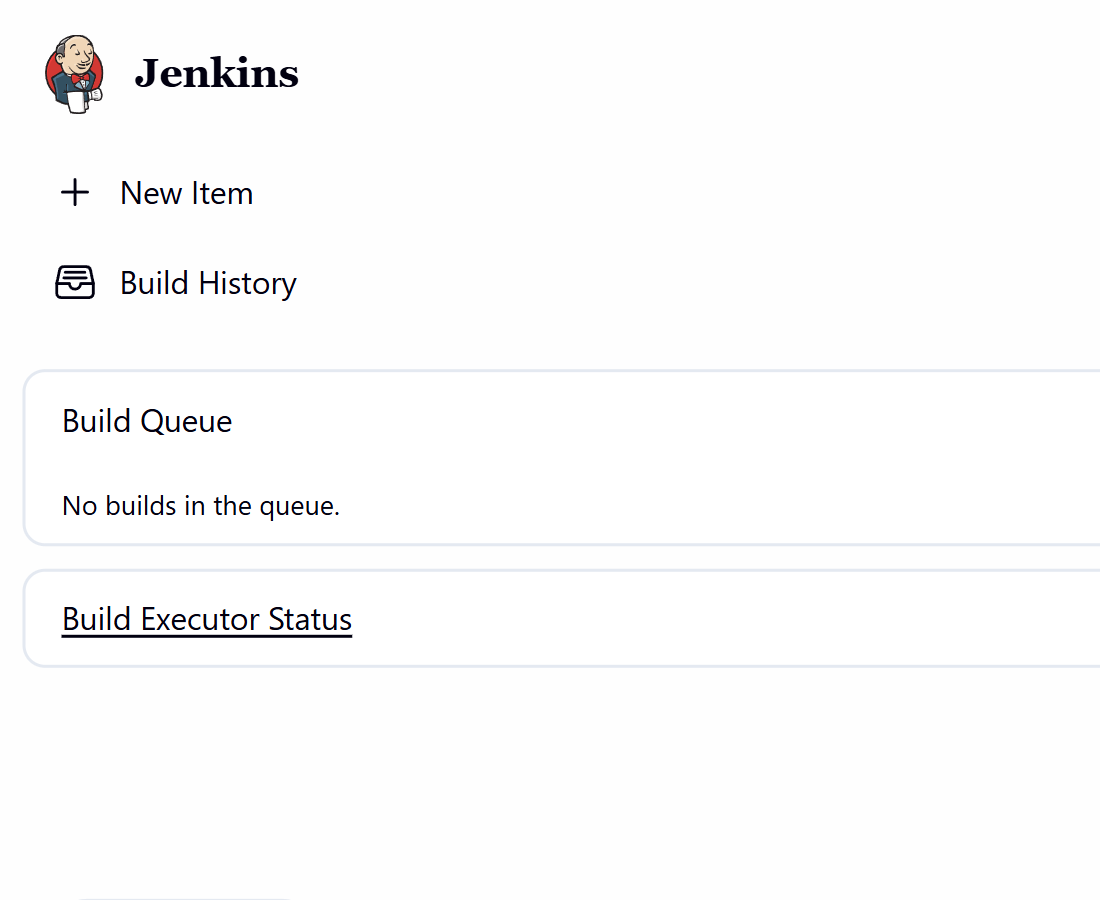
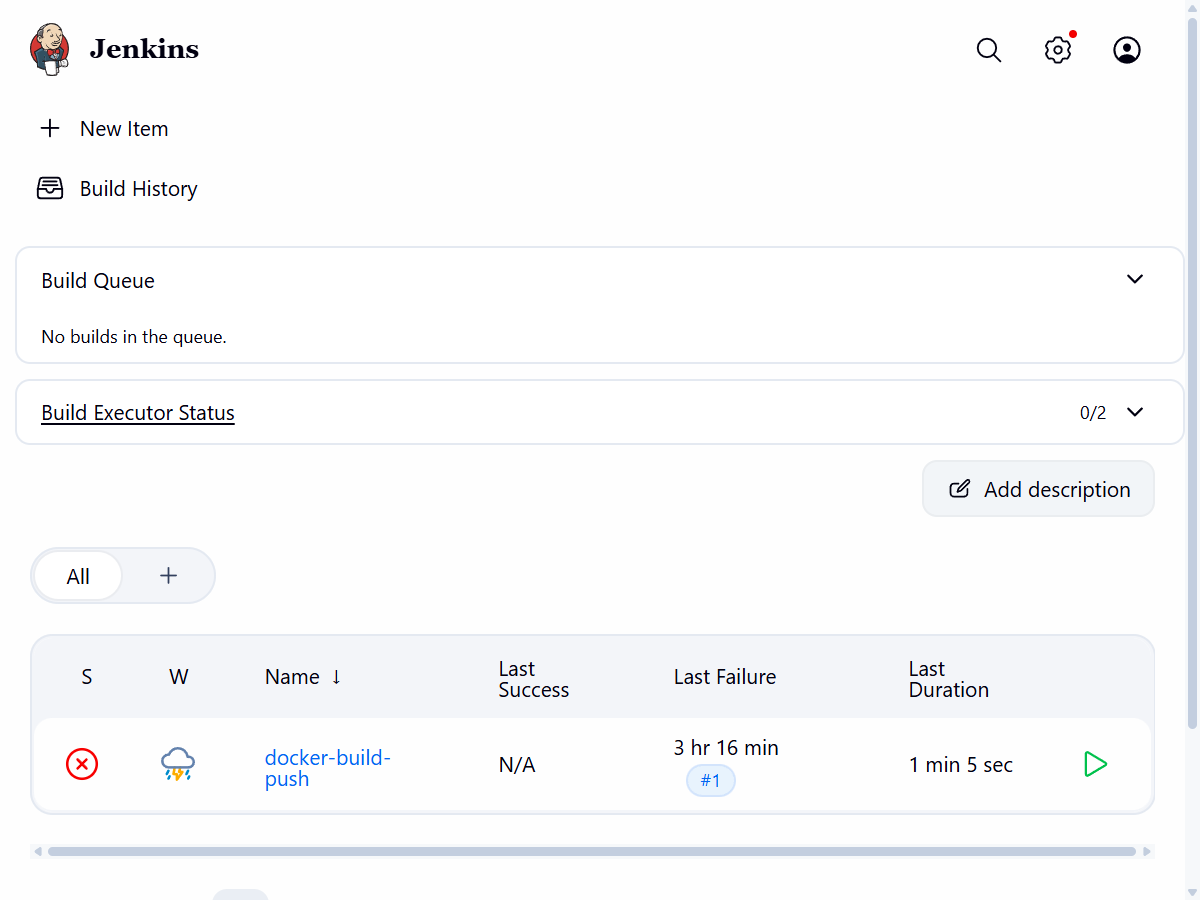
1

diff --git a/04_Jenkins/001_Jenikin/003_LAB_Docker_Build_Push/README.md b/04_Jenkins/001_Jenikin/003_LAB_Docker_Build_Push/README.md
@@ -2,7 +2,7 @@
 
 > 📝 **ฉบับปรับใหม่ (2026-09-27):** Jenkins SSH เข้า `devtools` ด้วย **key `devtoolSSH`** ผ่าน plugin **SSH Agent** และให้ SSH จำ host key ของ devtools เองตอนต่อครั้งแรก (`accept-new`) · `Jenkinsfile` ถูกเขียนใหม่ให้สั้นเหลือ **6 stage** · ⚠ ไฟล์ฉบับนี้ **ตรวจแบบ static แล้ว แต่ยังไม่ได้รันจริงบน Jenkins** · ภาพที่มีป้าย 🕰 **ภาพเดิม** ถ่ายจาก workflow รุ่นก่อน (SSH ด้วยรหัสผ่าน, 8 stage) ใช้ดูหน้าตาหน้าเว็บเท่านั้น
 
-> ⏱ ประมาณ 45–60 นาที · 🧪 7 ขั้น · 🎯 จบเมื่อกด **Build** ใน Jenkins แล้ว `http://localhost:3000` แสดงร้าน **Meow Mart** เวอร์ชันที่ Pipeline เพิ่ง build → test → push ขึ้น Docker Hub → pull กลับมา deploy
+> ⏱ ประมาณ 45–60 นาที · 🧪 6 ขั้น (ไม่นับข้อ 0 สิ่งที่ต้องมี) · 🎯 จบเมื่อกด **Build** ใน Jenkins แล้ว `http://localhost:3000` แสดงร้าน **Meow Mart** เวอร์ชันที่ Pipeline เพิ่ง build → test → push ขึ้น Docker Hub → pull กลับมา deploy
 
 ## ภาพรวม
 
@@ -204,9 +204,9 @@ docker exec jenkins cat /var/jenkins_home/secrets/initialAdminPassword
 
 **3.0ข) Dashboard → ไอคอนเฟือง ⚙** — คลิกไอคอน**เฟือง** (Manage Jenkins) มุมขวาบน ข้างไอคอนแว่นขยาย
 
-[![หน้า Dashboard มีไอคอนเฟือง Manage Jenkins มุมขวาบน](./images/lab3_nav_02_dashboard.png)](./images/lab3_nav_02_dashboard.png)
+[![หน้า Dashboard มีไอคอนเฟือง Manage Jenkins มุมขวาบน](./images/lab3_nav_02_dashboard_large.png)](./images/lab3_nav_02_dashboard_large.png)
 
-*ภาพที่ 4ข หน้า **Dashboard**: มุมขวาบนมีไอคอนแว่นขยาย (ค้นหา) · **เฟือง = Manage Jenkins** · ไอคอนผู้ใช้ · จุดแดงบนเฟืองคือการแจ้งเตือนของระบบ ไม่เกี่ยวกับแล็บนี้*
+*ภาพที่ 4ข หน้า **Dashboard**: มุมขวาบนมีไอคอนแว่นขยาย (ค้นหา) · **เฟือง = Manage Jenkins** · ไอคอนผู้ใช้ · จุดแดงบนเฟืองคือการแจ้งเตือนของระบบ ไม่เกี่ยวกับแล็บนี้ (คลิกภาพเพื่อขยาย)*
 
 **3.0ค) Manage Jenkins → Credentials** — หมวด **Security** คลิก **Credentials** (ไม่ใช่ **Credential Providers**)
 
@@ -222,9 +222,9 @@ docker exec jenkins cat /var/jenkins_home/secrets/initialAdminPassword
 
 **3.0จ) System → Global** (Jenkins รุ่นก่อนเรียกว่า **Global credentials (unrestricted)**)
 
-[![หน้า System แสดง domain Global](./images/lab3_nav_05_system.png)](./images/lab3_nav_05_system.png)
+[![หน้า System แสดง domain Global](./images/lab3_nav_05_system_large.png)](./images/lab3_nav_05_system_large.png)
 
-*ภาพที่ 4จ หน้า **System**: domain **Global***
+*ภาพที่ 4จ หน้า **System** (breadcrumb Manage Jenkins / Credentials / System): คลิกลิงก์ **Global** ใต้ปุ่ม **+ Add domain** (บรรทัดใต้ลิงก์เขียน *Credentials that should be available everywhere.*) · ไม่ต้องกด Add domain (คลิกภาพเพื่อขยาย)*
 
 **3.0ฉ) Global → + Add Credentials**
 
